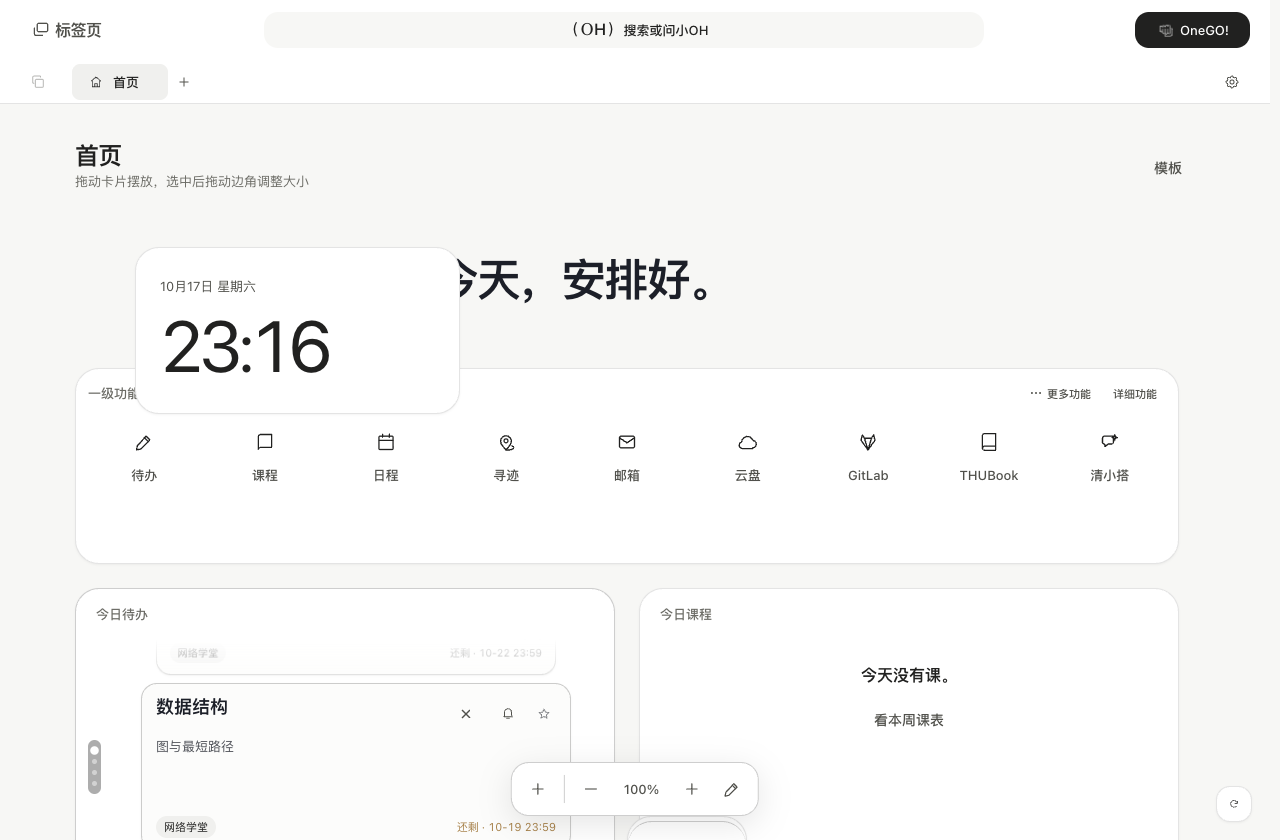
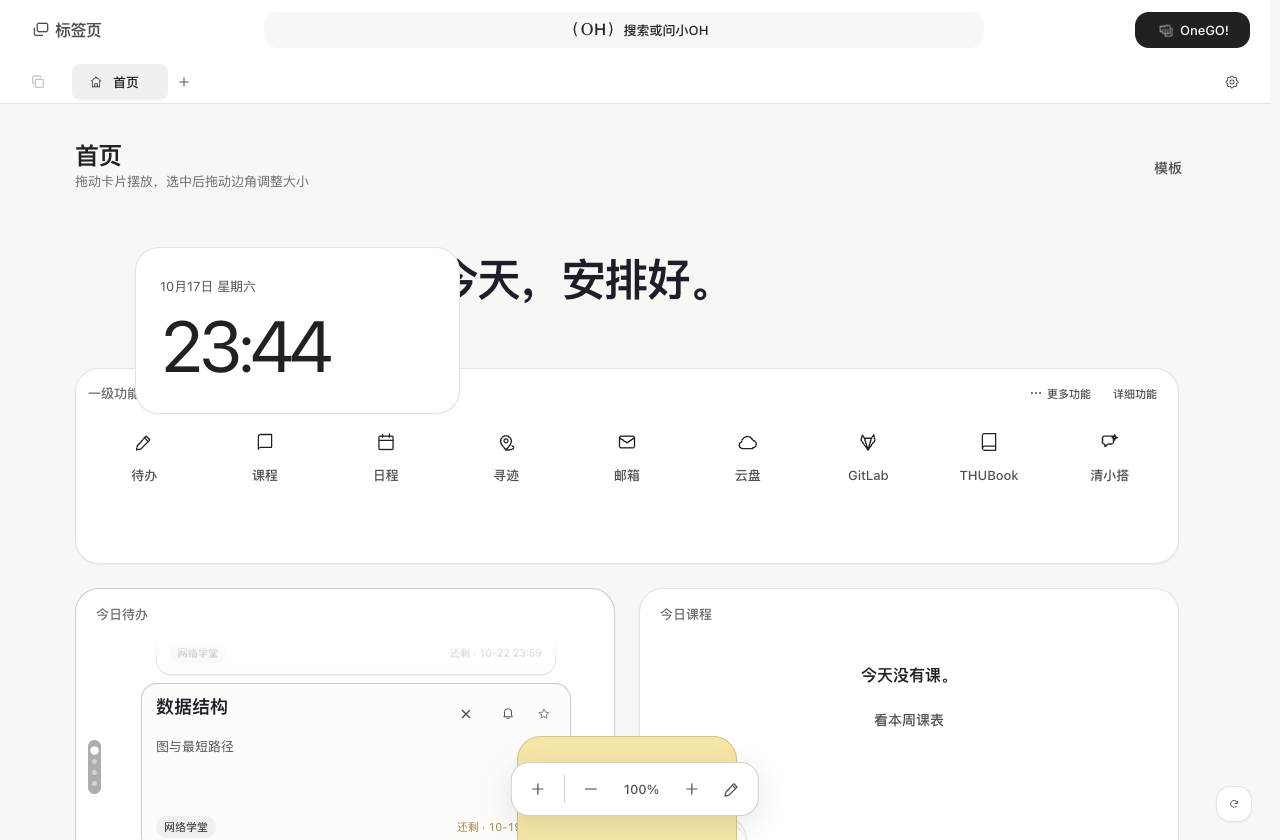
feat(theme): 便笺纸跟随玻璃材质（同档透光 + blur + 材质阴影）
便笺此前是玻璃皮肤唯一被排除的常驻面（:not(.is-note)），永远是不透光纸色。
现在玻璃皮肤下：

- .free-item.is-note 底色 = color-mix(note-paper × --og-note-opacity, transparent)，
  --og-note-opacity 直接跟随 --og-material-opacity（clear 30 / rich 60 / deep 74，
  深色 6/14/20），并叠加 --og-note-blur（与卡片同档 blur+saturate）与材质阴影；
  内层 .free-note 透明，避免双层实底。
- 便笺 tone（黄/粉/蓝/绿）保留：只是从实色纸变成有色玻璃；默认皮肤行为不变。
- prefers-reduced-transparency 时回实色纸、关闭 blur。
- 文字色由 textContrast 引擎按实际合成底色取：亮色深墨、深色主题自动转白。

回归：usability-browser-test 新增 2 条（双击空白建便笺、便笺纸透明度=材质档 +
blur + 内层透明），52 条断言通过；typecheck/build/guard:onegui/docs-prose-lint 通过。
证据：docs/onegui/usability-repair/note-glass.png / note-glass-dark.png。

Changed region(s): [[0.4062, 0.9595, 0.5938, 1.0], [0.4062, 0.8667, 0.5938, 0.9286], [0.1875, 0.3714, 0.2812, 0.4643]]

diff --git a/packages/gui/src/recipes/workbench.css b/packages/gui/src/recipes/workbench.css
@@ -325,9 +325,20 @@ html:root[data-og-skin="glass"] :is(.explorer-topbar, .ex-bbar, .ex-rail) { back
 html:root[data-og-skin="glass"] :is(.settings-panel, .theme-pick-panel, .ex-sheet, .og-modal-panel, .board-viewport-tools) { background: var(--og-fill-overlay); backdrop-filter: var(--og-overlay-blur); -webkit-backdrop-filter: var(--og-overlay-blur); }
 html:root[data-og-skin="glass"] :is(.free-item:not(.is-note), .card, .home-card) { background: var(--og-fill-surface); backdrop-filter: var(--og-surface-blur); -webkit-backdrop-filter: var(--og-surface-blur); }
 html:root[data-og-skin="glass"] .free-item :is(.card, .home-card, .wg-card) { background: transparent; backdrop-filter: none; -webkit-backdrop-filter: none; }
+/* 便笺纸跟随玻璃材质：默认仍是实色纸（黄/粉/蓝/绿），玻璃皮肤下变成同档透光的有色玻璃。
+   便笺文字/图标仍由 textContrast 引擎按实际合成底色取字色，浅色纸与深色纸都读得清。 */
+html:root[data-og-skin="glass"] .free-item.is-note {
+  background: color-mix(in srgb, var(--og-note-paper) var(--og-note-opacity), transparent);
+  border-color: color-mix(in srgb, var(--og-note-ink) 14%, transparent);
+  -webkit-backdrop-filter: var(--og-note-blur);
+  backdrop-filter: var(--og-note-blur);
+}
+html:root[data-og-skin="glass"] .free-item.is-note:not(.is-selected) { box-shadow: var(--og-material-shadow); }
+html:root[data-og-skin="glass"] .free-item.is-note .free-note { background: transparent; }
+
 html:root[data-og-skin="glass"] .has-shell-wallpaper :is(.explorer-panel, .explorer-content) { background: transparent; }
 @media (prefers-reduced-transparency: reduce) {
-  html:root[data-og-skin="glass"] { --og-fill-surface: var(--og-surface-1); --og-fill-overlay: var(--og-surface-overlay); --og-surface-blur: none; --og-overlay-blur: none; }
+  html:root[data-og-skin="glass"] { --og-fill-surface: var(--og-surface-1); --og-fill-overlay: var(--og-surface-overlay); --og-surface-blur: none; --og-overlay-blur: none; --og-note-opacity: 100%; --og-note-blur: none; }
 }
 
 /* Home components use the same persisted geometry as every other board item. */

diff --git a/packages/gui/src/skins/glass.css b/packages/gui/src/skins/glass.css
@@ -4,6 +4,9 @@
  */
 [data-og-skin="glass"] {
   --og-material-opacity: 44%;
+  /* 便笺纸也走材质轴：同档透光 + 背景模糊（文字/图标仍由对比度引擎兜底）。 */
+  --og-note-opacity: var(--og-material-opacity);
+  --og-note-blur: var(--og-surface-blur);
   --og-material-overlay-opacity: 74%;
   --og-blur-1: 20px;
   --og-saturate: 155%;

diff --git a/docs/onegui/usability-repair/README.md b/docs/onegui/usability-repair/README.md
@@ -37,7 +37,7 @@
 
 - `pnpm --filter @onethu/desktop typecheck` 通过；`pnpm build`（全仓）通过。
 - `pnpm guard:onegui` 通过（含 46 组语义色对比度；裸控件 243 → 236，未新增样式违规）。
-- `node tools/usability-browser-test.mjs`：**50 条浏览器断言通过，0 运行时错误**。覆盖：首页标题、编辑布局模式已移除、100% 适配、直接拖动/选中拉角/刷新持久、选中失焦（页头/画布空白）、右键与＋同一选择器且分段齐全（常用含便笺第一 / OnePage 与组合 / 全部组件）可搜索、抽屉把手可上拉展开、笔色板三色+选中、待办滚轮交还页面、设置文案删除、真实壁纸下 clear 材质透光+模糊、对比度引擎读 `color(srgb …)`、标题板走玻璃材质、OH 三模式的创造/会话按钮可见性、胶囊指针/键盘回弹、标签图标映射与 OnePage 标签名/图标、900/390/320 三档无横向溢出、手机堆叠点选与浮条增高。
+- `node tools/usability-browser-test.mjs`：**52 条浏览器断言通过，0 运行时错误**。覆盖：首页标题、编辑布局模式已移除、100% 适配、直接拖动/选中拉角/刷新持久、选中失焦（页头/画布空白）、右键与＋同一选择器且分段齐全（常用含便笺第一 / OnePage 与组合 / 全部组件）可搜索、抽屉把手可上拉展开、笔色板三色+选中、便笺纸跟随玻璃材质、待办滚轮交还页面、设置文案删除、真实壁纸下 clear 材质透光+模糊、对比度引擎读 `color(srgb …)`、标题板走玻璃材质、OH 三模式的创造/会话按钮可见性、胶囊指针/键盘回弹、标签图标映射与 OnePage 标签名/图标、900/390/320 三档无横向溢出、手机堆叠点选与浮条增高。
 - `node tools/theme-home-browser-test.mjs`：**80 条断言通过**（已改为直接拖动/选中拉角；手机点选后浮条重排）。
 - `tools/theme-home-model-test.mjs`：79 条主题注入/迁移断言通过。
 - 白板 model / size / fit / drag / edit / templates / legacy-merge / overlap-invariant / nav-bridge / deeplink / view 11 个护栏全部通过（`board-edit-test` 的抽屉遍历断言同步接受搜索后的 `shownDefs`）。
@@ -49,8 +49,8 @@
 ## 六、证据
 
 - [首页](home.png) · [壁纸 + 玻璃（含 首页 标题板）](glass.png) · [900](home-900.png) · [手机 390](home-390.png) · [320](home-320.png)
-- [统一的组件选择器（分段 + 搜索 + 缩略图）](add-picker.png) · [笔色板](pen-palette.png) · [标签图标 / OnePage 名字](tabs.png) · [手机堆叠选中浮条](phone-selected.png)
-- [浏览器断言报告](report.json)（50 checks / 0 errors）
+- [统一的组件选择器（分段 + 搜索 + 缩略图）](add-picker.png) · [笔色板](pen-palette.png) · [标签图标 / OnePage 名字](tabs.png) · [便笺玻璃（亮色）](note-glass.png) · [便笺玻璃（深色）](note-glass-dark.png) · [手机堆叠选中浮条](phone-selected.png)
+- [浏览器断言报告](report.json)（52 checks / 0 errors）
 
 ## 七、重跑
 
@@ -75,3 +75,13 @@ node --import ./tools/ts-resolve-register.mjs tools/theme-home-model-test.mjs
    - OnePage 标签显示**那块板自己的名字**（原来写死「白板」）与 **板自己的 icon**；`FOLDER_ICONS` 补上 book / orb，选中这两种 icon 的 OnePage 不再退化成文件夹。
    - 插件标签使用插件注册的 `iconSvg`；`ex-tab-plugin-glyph` 统一到 16px 令牌尺寸。
 5. **THUbook → THUBook**：所有 UI 文案、导航名、页面标题、工具描述、文档与测试标签统一为 **THUBook**（文件/页面 id `ThubookPage` / `thubook` 保持不变）；OH Harness 子模块里的工具描述与 UA 也同步改名（子模块提交 `595e88c`）。
+
+## 九、便笺跟随玻璃材质（2026-10-17 23:41）
+
+便笺此前是唯一被玻璃皮肤显式排除的常驻面（`:not(.is-note)`），永远是不透光纸色。现在纸色也走材质轴：
+
+- 玻璃皮肤下 `.free-item.is-note` 的底色 = `color-mix(in srgb, var(--og-note-paper) var(--og-note-opacity), transparent)`，`--og-note-opacity` 直接取当前材质档（clear 30% / rich 60% / deep 74%，深色 `data-og-scheme=dark` 用 6%/14%/20%），并叠加 `backdrop-filter: var(--og-note-blur)`（与卡片同一档 blur + saturate）与材质阴影；内层 `.free-note` 透明，避免双重实底。
+- 纸色（黄/粉/蓝/绿）仍按便笺自身 tone 变化，但变成透光的有色玻璃；默认皮肤仍是实色纸，行为不变。
+- `prefers-reduced-transparency: reduce` 时便笺回实色纸、关闭 blur（`--og-note-opacity: 100%`）。
+- 文字/图标仍由 textContrast 引擎按实际合成底色取字色：亮色下深墨、深色主题下自动转白（实测 probe：dark 下 ink 切到 rgba(255,255,255,.95)）。
+- 回归：`usability-browser-test` 新增 2 条断言（双击空白建便笺、便笺纸透明度=材质档 + blur + 内层透明），总数 52。
